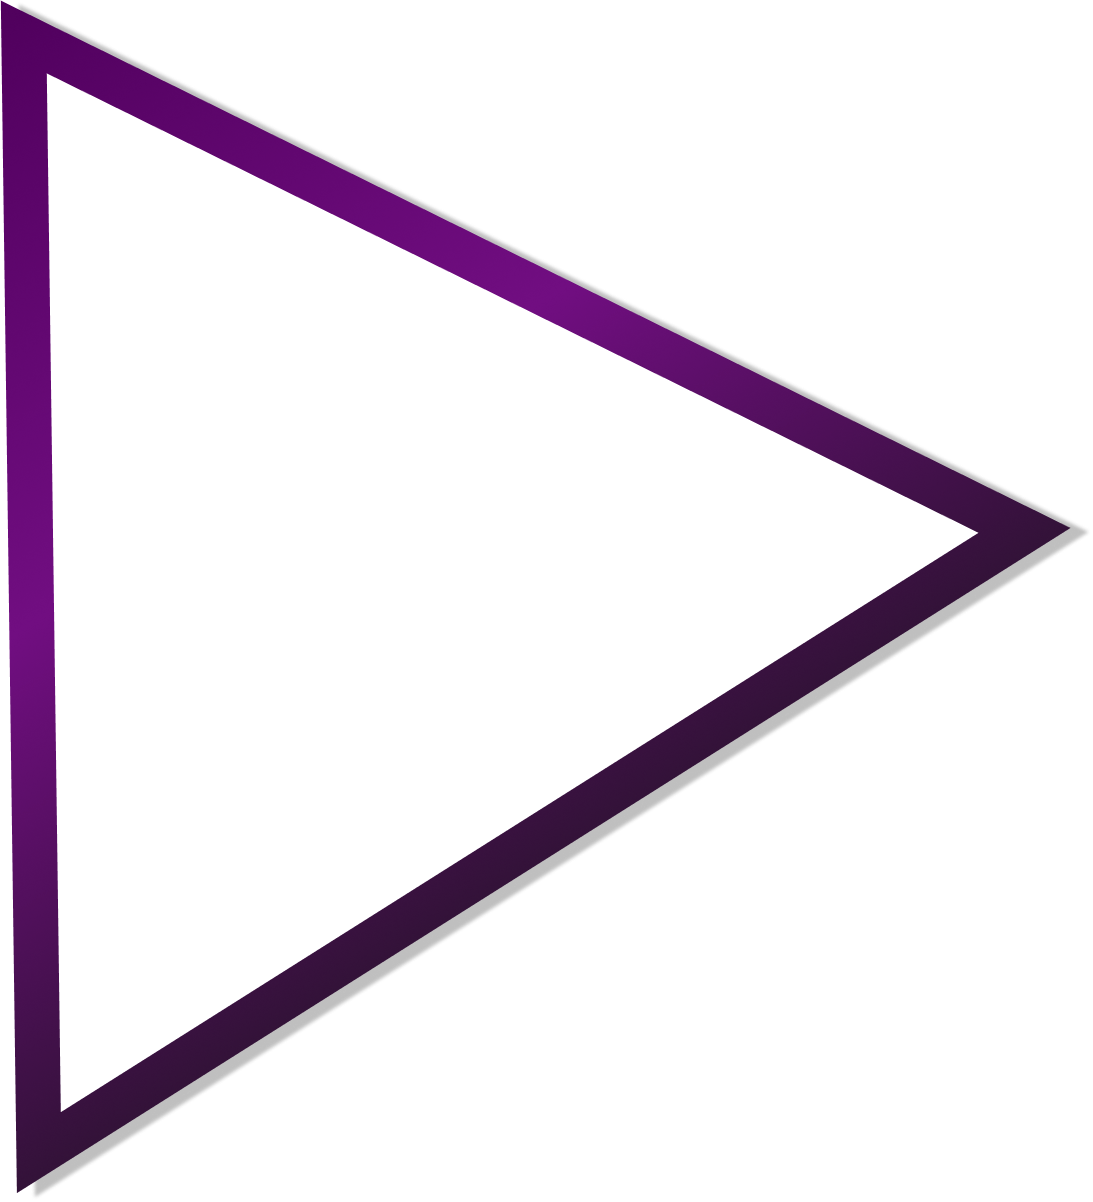
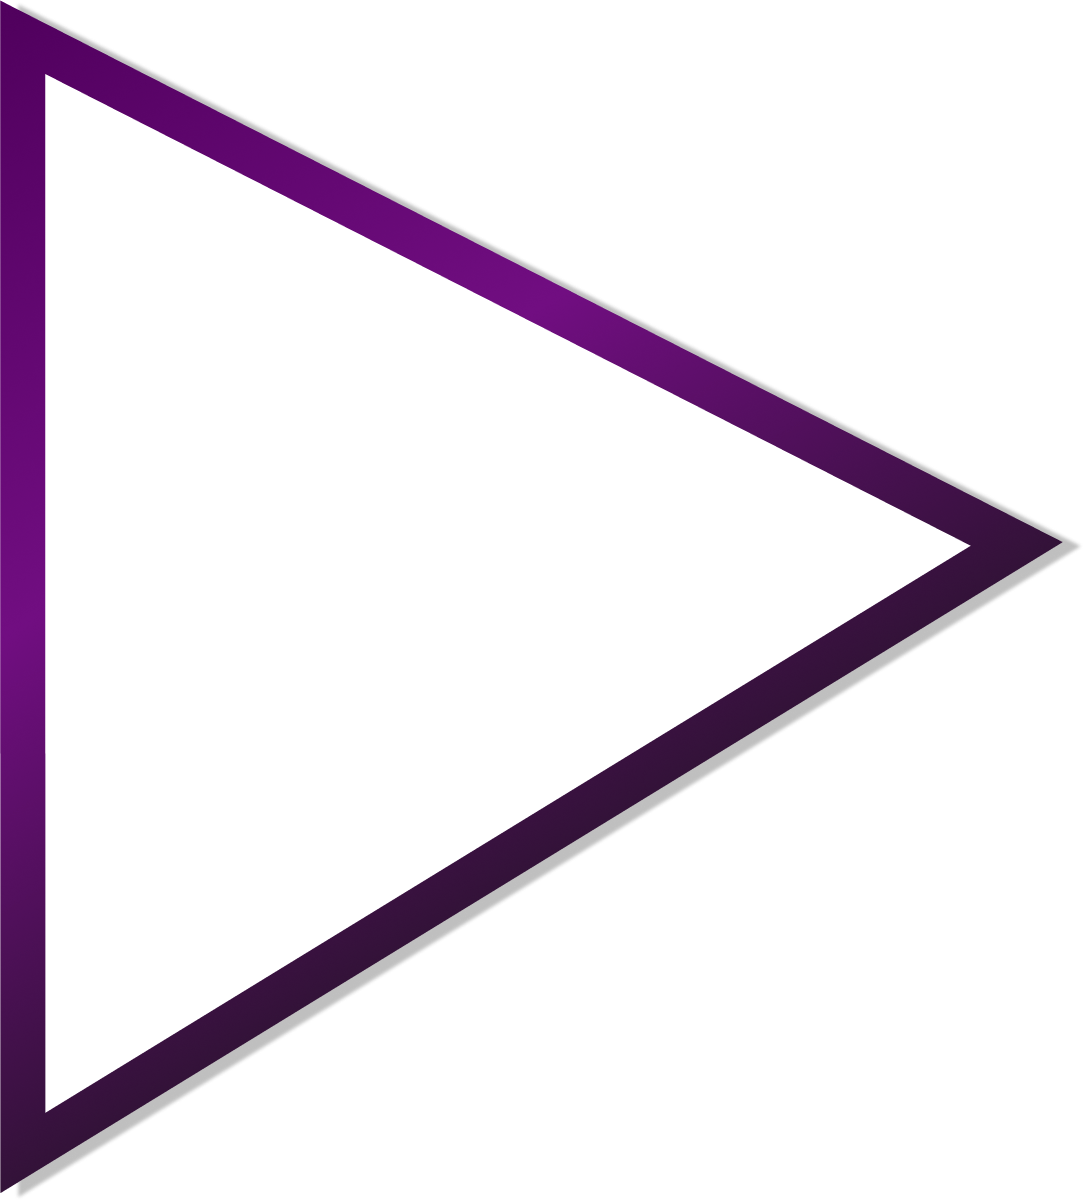
Added cards to landing page

diff --git a/templates/feature_card.html b/templates/feature_card.html
@@ -1,0 +1,46 @@
+{% load static %}
+{% block head %}
+    <link rel = 'stylesheet' href = "{%static 'css/feature_card.css' %}">
+{% endblock head %}
+
+
+<div class = 'cards'>
+    <div class = 'tools'>
+        <div class = 'circle'>
+            <div class = 'box red   '></div>
+        </div>
+        <div class = 'circle'>
+            <div class = 'box yellow'></div>
+        </div>
+        <div class = 'circle'>
+            <div class = 'box green'></div>
+        </div>
+    </div>
+
+    <div class="card_content">
+        <div class="card_title">
+            {{ title}}
+        </div>
+        <div class="card_desc">
+            {{ desc }}
+        </div>
+    </div>
+    <div class="card_image">
+        {% if image == 'clock' %}
+            <!-- <img src = "{% static 'images/clock.svg' %}"> -->
+            <svg width="50%" height="50%" viewBox="0 0 128 128" fill="none" xmlns="http://www.w3.org/2000/svg">
+                <g id="Clock">
+                    <g id="frame-group">
+                        <path id="frame" d="M124 63.5C124 96.3609 97.3609 123 64.5 123C31.6391 123 5 96.3609 5 63.5C5 30.6391 31.6391 4 64.5 4C97.3609 4 124 30.6391 124 63.5ZM11.1729 63.5C11.1729 92.9517 35.0483 116.827 64.5 116.827C93.9517 116.827 117.827 92.9517 117.827 63.5C117.827 34.0483 93.9517 10.1729 64.5 10.1729C35.0483 10.1729 11.1729 34.0483 11.1729 63.5Z" />
+                    </g>
+                    <g id="clock-tips-group">
+                        <rect id="tip1" x="61" y="19" width="6" height="45" rx="3"/>
+                        <path id="tip2" d="M62.7653 63.8641C61.295 62.8346 60.9376 60.8081 61.9672 59.3378V59.3378C62.9967 57.8674 65.0232 57.5101 66.4935 58.5396L87.9521 73.5651C89.4224 74.5946 89.7797 76.6211 88.7502 78.0914V78.0914C87.7207 79.5618 85.6941 79.9191 84.2238 78.8896L62.7653 63.8641Z"/>
+                    </g>
+                </g>
+            </svg>
+        {% elif imge == '' %}
+            <img src = "{% static 'images/__________.png' %}">
+        {% endif %}
+    </div>
+</div>

diff --git a/static/css/feature_card.css b/static/css/feature_card.css
@@ -1,0 +1,123 @@
+@import url('https://fonts.googleapis.com/css2?family=Noto+Sans:wght@300&display=swap');
+
+.cards {
+    width: 30rem;
+    height: 17rem;
+    background-color: transparent;
+    border: 1px solid #7b129e;
+    border-radius: 3%;
+    box-shadow: 0px 0px 10pt 0pt #7b129e;
+    position: relative;
+    overflow: hidden;
+}
+
+.tools {
+    width: 100%;
+    height: 1.5rem;
+    display: block;
+    padding: 0.5rem 2rem 0.5rem 1rem;
+}
+
+.circle {
+    display: inline-block;
+    width: 0.9rem;
+    height: 1rem;
+}
+
+.box {
+    width: 100%;
+    height: 100%;
+    border-radius: 50%;
+}
+
+.red {
+    background-color: red;
+}
+
+.green {
+    background-color: green;
+}
+
+.yellow {
+    background-color: yellow;
+}
+
+.card_content {
+    font-family: 'Noto Sans';
+    margin: 2rem;
+}
+
+.card_title {
+    font-size: 3vmin;
+}
+
+.card_desc {
+    font-size: 2vmin;
+}
+
+.card_image {
+    display: flex;
+    justify-content: center;
+    align-items: center;
+    width: 8rem;
+    height: 8rem;
+    border-radius: 50%;
+    position: absolute;
+    border: 1px solid #7b129e;
+    bottom: -1rem;
+    right: -1rem;
+}
+
+.card_image img {
+    height: 50%;
+    width: 50%;
+}
+
+#tip1, #tip2, #frame{
+    fill: #7b129e;
+    stroke: #7b129e;
+}
+
+@media screen and (max-width: 1260px) {
+    .cards {
+        width: 20rem;
+        height: 17rem;
+    }
+}
+
+@media screen and (max-width: 850px) {
+    
+    .center {
+        display: none;
+    }
+    
+    .hero2_content {
+        flex-direction: column;
+        align-items: center;
+        gap: 3rem;
+    }
+    
+    .left, .right {
+        width: 80%;
+        margin: 0;
+    }
+    
+    .cards {
+        width: 100%;
+        height: 13rem;
+    }
+    
+    .card_title {
+        font-size: 4vmin;
+    }
+    
+    .card_desc {
+        font-size: 3vmin;
+    }
+    
+    .card_image {
+        height: 6rem;
+        width: 6rem;;
+    }
+
+}

diff --git a/static/css/landing.css b/static/css/landing.css
@@ -1,3 +1,4 @@
+
 .hero1 {
     display: flex;
     flex-direction: column;
@@ -80,13 +81,14 @@
 
 .hero2 {
     display: flex;
+    flex-direction: column;
     margin-top: 3%;
     color: white;
     font-size: 2.4vmin;
     height: 100vh;
     width: 100%;
     justify-content: center;
-    align-items: flex-start;
+    align-items: center;
 }
 
 .hero2_title {
@@ -99,13 +101,15 @@
     font-size: 5vmin;
     font-family: 'Author';
     word-spacing: 0.5vw;
-    margin-bottom: 2%;
+    margin-bottom: 4%;
+    
 }
 
 .hero2_title span:nth-child(2) {
     width: 100%;
-    height: 1vh;
+    height: 0.3vh;
     background-color: white;
+    box-shadow: 0 0 60px 3px whitesmoke;
 }
 
 /* .hero2_title span::after {
@@ -121,9 +125,8 @@
 
 .hidden {
     position: relative;
-    height: 5vh;
     opacity: 0;
-    transition: all 2s;
+    transition: all 4s;
 }
 
 .hidden:nth-child(2) {
@@ -152,6 +155,35 @@
     opacity: 1;
 }
 
+.hero2_content {
+    display: flex;
+    justify-content: center;
+    width: 100%;
+    margin-top: 5%;
+}
+
+.hero2_content .center {
+    width: 2vw;
+    height: 80vh;
+    background: linear-gradient(180deg, transparent, rgba(108,1,115,1) 50%, transparent);
+}
+
+.left {
+    margin-right: 5%;
+    width: 40%;
+    display: flex;
+    flex-direction: column;
+    align-items: flex-end;
+}
+
+.right {
+    margin-left: 5%;
+    width: 40%;
+    display: flex;
+    flex-direction: column;
+    align-items: flex-start;
+}
+
 @media screen and (max-width: 1600px) {
     .p1 {
         display: none;
@@ -165,7 +197,7 @@
 
     .hero1 {
         justify-content: flex-start;
-        width: 90%;
+        width: 100%;
         margin-top: 20%;
     }
 
@@ -174,6 +206,11 @@
     }
 
     .scroll-wheel {
-        left: 47%;
+        left: 50%;
+    }
+
+    .hero2 {
+        justify-content: flex-start;
+        margin-top: 0;
     }
 }  

diff --git a/templates/landing.html b/templates/landing.html
@@ -37,6 +37,18 @@
             <span class = 'hidden'>WHY CHOOSE US</span>
             <span class = 'hidden'></span>
         </div>
+        <div class = 'hero2_content hidden'>
+            <div class = 'left'>
+                {% include 'feature_card.html' with title='Availability' desc='Our Servers run 24/7 to keep track of the product price.' image='clock' only %}
+            </div>
+            <div class = 'center'>
+                
+            </div>
+            <div class = 'right'>
+                {% include 'feature_card.html' with title='Availability' desc='Our Servers run 24/7 to keep track of the product price.' image='none' only %}
+                </div>
+            </div>    
+        </div>
     </div>
     
     <script src = "{% static 'js/landing.js' %}"></script>

diff --git a/static/css/base.css b/static/css/base.css
@@ -1,6 +1,7 @@
 * {
     margin: 0;
     padding: 0;
+    box-sizing: border-box;
 }
 
 ::-webkit-scrollbar {
@@ -17,8 +18,8 @@ body {
     min-height: 100vh;
     background-image: url('../images/circle.png'), url('../images/triangle.png'), linear-gradient(68.25deg, #17161A 0%, #220D2E 98.71%);
     background-repeat: no-repeat;
-    background-size: 40%, 60%, 100%;
-    background-position: top left, 123.7% 20em, left;
+    background-size: 40%, 50%, 100%;
+    background-position: top left, 120% 20em, left;
     background-attachment: local;
     overflow-x: hidden;
     overflow-y:scroll;
